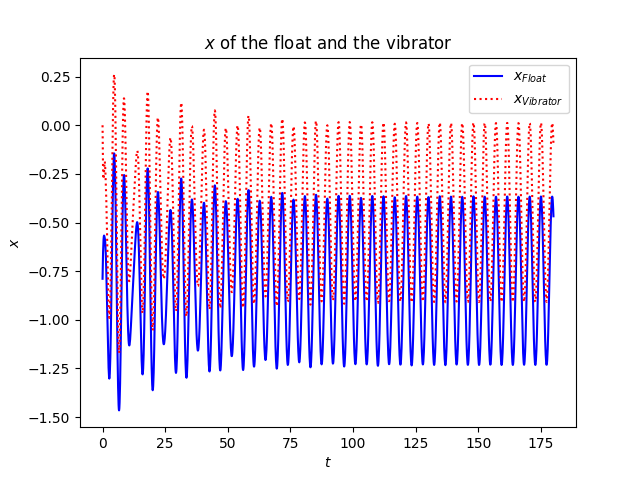
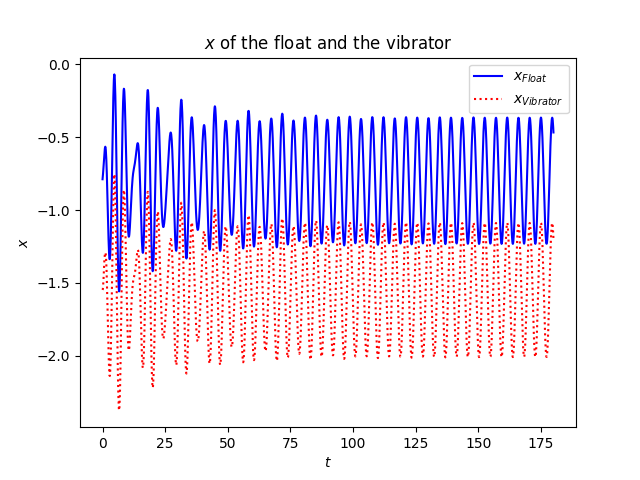
问题二第一问代码，开始做第二问

diff --git a/Q2.py b/Q2.py
@@ -19,15 +19,27 @@ c_dp_max = 100000
 c_dp_stp = 1000
 stp_n = int((c_dp_max - c_dp_min) / c_dp_stp)
 
+e_dp_min = 0
+e_dp_
+
 class dmp_q2_1(damper):
     t_delta = 0
     p = 0
     w = 0
+    e = 0
     p_ave = 0
 
-    def __init__(self, c, isStd, tm):
+    def __init__(self, c, isStd, tm, e):
         super().__init__(c, isStd)
         self.t_delta = tm
+        self.e = e
+
+    def calFDamp(self, v_M, v_m):
+        v_dif = v_M - v_m
+        if self.std:
+            self.f = round(self.c * v_dif, prc)
+        else:
+            self.f = round(self.c * pow(abs(v_dif), self.e) * v_dif, prc)
 
     # 计算瞬时功率
     def calPow(self, v_M, v_m):
@@ -55,50 +67,49 @@ std = True
 ps = np.zeros([stp_n])
 ch = np.zeros([stp_n])
 
-for i in range(stp_n):
-    dmp = dmp_q2_1(cs[i], std, tmSlc)
-    flag = false
-    for j in range(N):
-        print("### 系数编号%d/%d，计算轮数%d/%d ###" % (i + 1, stp_n, j + 1, N))
-        shl.calAcl(spg.getF(), dmp.getFDamp(), f_wave(j * tmSlc, fM, omg))
-        shl.calVel()
-        vM = shl.getVel()
-        shl.calDes()
-        xM = shl.getDes()
-        vbt.calAcl(spg.getF(), dmp.getFDamp())
-        vbt.calVel()
-        vm = vbt.getVel()
-        vbt.calDes()
-        xm = vbt.getDes()
-        spg.calF(xM, xm, dis)
-        if spg.x <= 0 or spg.x >= 3:
-            ch[i] = 1
-            flag = true
-            break
-        dmp.calFDamp(vM, vm)
-        dmp.calPow(vM, vm)
-        dmp.calWrk()
-    if flag:
-        continue
-    dmp.calPAve()
-    ps[i] = dmp.getPAve()
+def prb1():
+    for i in range(stp_n):
+        dmp = dmp_q2_1(cs[i], std, tmSlc, 0.5)
+        flag = false
+        for j in range(N):
+            print("### 系数编号%d/%d，计算轮数%d/%d ###" % (i + 1, stp_n, j + 1, N))
+            shl.calAcl(spg.getF(), dmp.getFDamp(), f_wave(j * tmSlc, fM, omg))
+            shl.calVel()
+            vM = shl.getVel()
+            shl.calDes()
+            xM = shl.getDes()
+            vbt.calAcl(spg.getF(), dmp.getFDamp())
+            vbt.calVel()
+            vm = vbt.getVel()
+            vbt.calDes()
+            xm = vbt.getDes()
+            spg.calF(xM, xm, dis)
+            if spg.x <= 0 or spg.x >= 3:
+                ch[i] = 1
+                flag = true
+                break
+            dmp.calFDamp(vM, vm)
+            dmp.calPow(vM, vm)
+            dmp.calWrk()
+        if flag:
+            continue
+        dmp.calPAve()
+        ps[i] = dmp.getPAve()
+    cs_vld = list()
+    ps_vld = list()
+    for i in range(stp_n):
+        if ch[i] == 0:
+            cs_vld.append(cs[i])
+            ps_vld.append(ps[i])
+    n = len(cs_vld)
+    cs_vld = np.asarray(cs_vld)
+    ps_vld = np.asarray(ps_vld)
 
-cs_vld = list()
-ps_vld = list()
-for i in range(stp_n):
-    if ch[i] == 0:
-        cs_vld.append(cs[i])
-        ps_vld.append(ps[i])
-n = len(cs_vld)
-cs_vld = np.asarray(cs_vld)
-ps_vld = np.asarray(ps_vld)
+    f = open("Q2Data1_stp1000.txt", 'w')
+    f.write(str(n))
+    f.write('\n')
+    wrtFil(f, cs_vld)
+    wrtFil(f, ps_vld)
+    f.close()
 
-f = open("Q2Data1_stp1000.txt", 'w')
-f.write(str(n))
-f.write('\n')
-wrtFil(f, cs_vld)
-wrtFil(f, ps_vld)
-f.close()
 
-plt.scatter(cs_vld, ps_vld)
-plt.show()

diff --git a/Q1.py b/Q1.py
@@ -19,7 +19,7 @@ M_cw = 656.3616
 M_add = 1335.535
 
 c_dmp = 10000
-dmp_isStd = False
+dmp_isStd = True
 
 cycle = 2 * pi / omg
 tmSlc = 0.1
@@ -29,7 +29,7 @@ N = int(tmTol / tmSlc)
 t = Symbol('t')
 prc = 20
 
-f_name = "Q1Data2.txt"
+f_name = "Q1Data1.txt"
 
 '''
 激励力的大小计算
@@ -77,12 +77,12 @@ class shell:
         F = (rho * g * V) - (shell.m * g + vibrator.m * g)
         V = solve(F, V)[0]
         # 圆柱体浸泡在水中的深度
-        fh = pi * self.r * self.r * self.h_cone / 3 + pi * self.r * self.r * h - V
+        fh = (pi * self.h_cone / 3 + pi * h) - V
         h = solve(fh, h)[0]
         # 求解浮子的质心位置
         l = sqrt(self.r ** 2 + self.h_cone ** 2)
         x = Symbol('x')
-        fx = (2 * pi * self.r * self.h_clid * x) - (pi * l * self.r * (self.h_clid / 2 + self.h_cone / 4 - x))
+        fx = (2 * pi * self.h_clid * x) - (pi * l * self.r * (self.h_clid / 2 + self.h_cone / 4 - x))
         self.d = solve(fx, x)[0]
         # 计算浮子起始时刻的坐标
         self.x0 = self.h_clid / 2 - h - self.d
@@ -182,7 +182,6 @@ class damper:
     def __init__(self, c, isStd):
         self.c = c
         self.std = isStd
-
 
     def calFDamp(self, v_M, v_m):
         v_dif = v_M - v_m
@@ -291,4 +290,4 @@ def run():
     wrtFil(f, fdp)
     f.close()
 
-run()
+# run()

diff --git a/Q1Ans.py b/Q1Ans.py
@@ -2,13 +2,13 @@ import numpy as np
 import matplotlib.pyplot as plt
 
 def gph():
-    plt.title('$a$ of the float and the vibrator')
-    plt.plot(t, aMs, c='b', label="$a_{Float}$")
-    plt.plot(t, ams, c='r', linestyle=':', label='$a_{Vibrator}$')
+    plt.title('$x$ of the float and the vibrator')
+    plt.plot(t, xMs, c='b', label="$x_{Float}$")
+    plt.plot(t, xms, c='r', linestyle=':', label='$x_{Vibrator}$')
     plt.legend()
     plt.xlabel('$t$')
-    plt.ylabel('$a$')
-    plt.savefig('a_q1_image2.png')
+    plt.ylabel('$x$')
+    plt.savefig('x_q1_image2.png')
     plt.show()
 
 def load(fl) -> np.ndarray:
@@ -31,4 +31,4 @@ xms = load(f)
 fel = load(f)
 fdp = load(f)
 
-gph()
+

diff --git a/Q2Ans.py b/Q2Ans.py
@@ -12,5 +12,5 @@ stp_n = int(f.readline())
 cs = load(f)
 ps = load(f)
 
-plt.plot(cs[3:33], ps[3:33])
+plt.scatter(cs, ps)
 plt.show()
